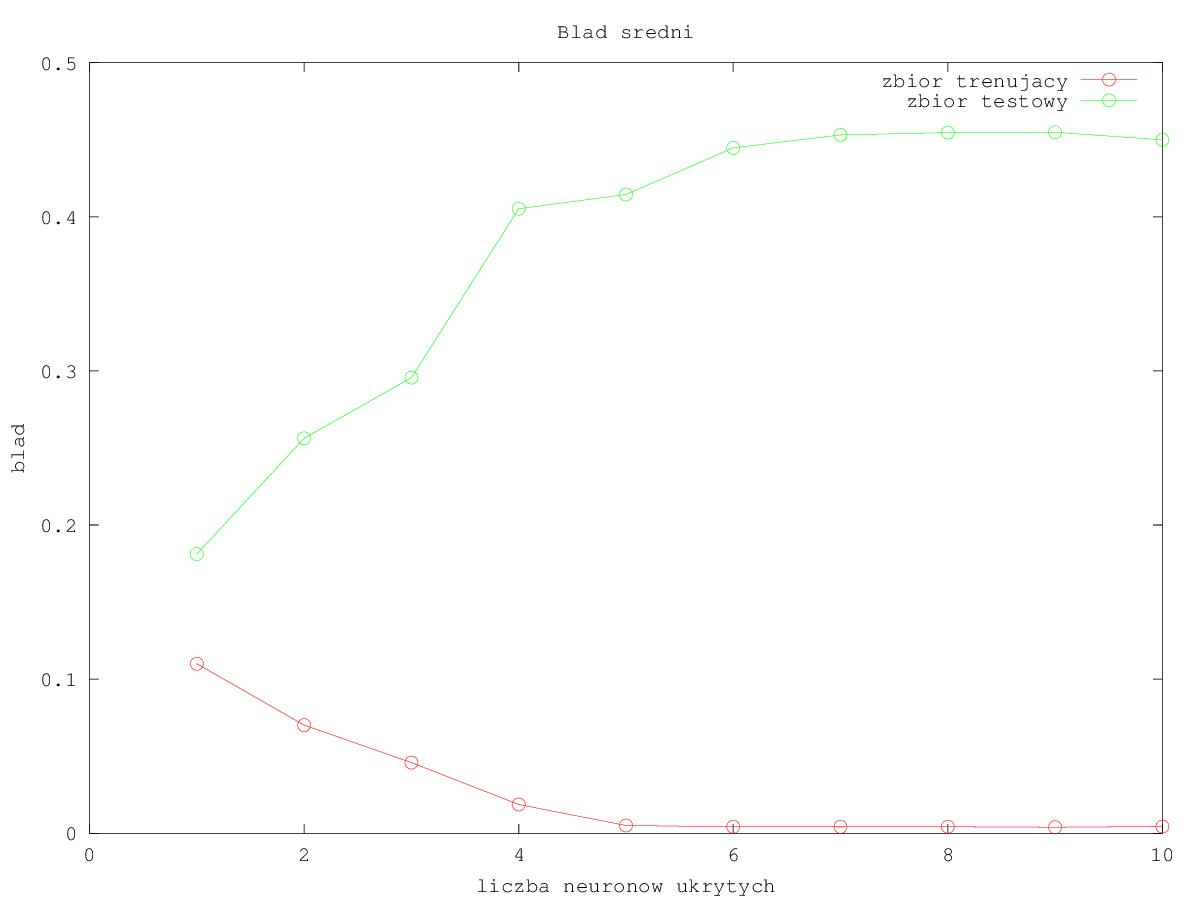
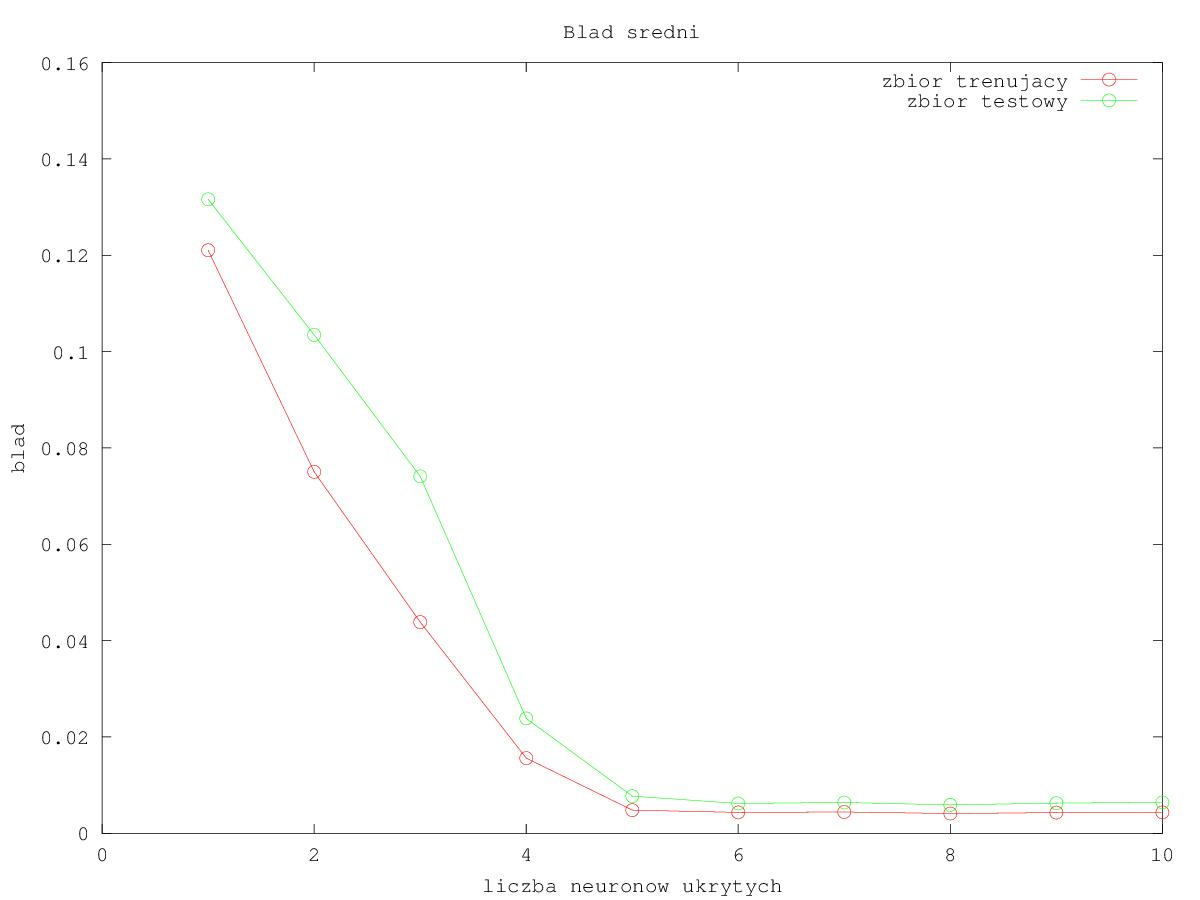
deadline: 6

diff --git a/SNN/KK_snn.m b/SNN/KK_snn.m
@@ -23,12 +23,13 @@ title ('Dane z plikow snn b.txt i snn test.txt');
 legend('snn b.txt', 'snn test.txt');
 print -djpg "dane_all.jpg";
 
+mDane = normSet(mDane);
 % podzial zbioru na zbior uczacy i testowy
 [mTrain, mTest] = subset(mDane',1,1,1/2);
 mTrain = mTrain';
 mTest = mTest';
 
-mDane = normSet(mDane);
+
 figure(2);
 plot(mDane(:,1),mDane(:,2));
 print -djpg "dane_norm.jpg";
@@ -41,8 +42,8 @@ title ('Zbior uczacy i testowy przed normowaniem');
 legend('zbior trenujacy', 'zbior testowy');
 print -djpg "dane_train_test.jpg";
 
-mTrain = normSet(mTrain);
-mTest = normSet(mTest);
+%mTrain = normSet(mTrain);
+%mTest = normSet(mTest);
 figure(4);
 plot(mTrain(:,1),mTrain(:,2), "ob",mTest(:,1),mTest(:,2), "*g" );
 xlabel ("x");
